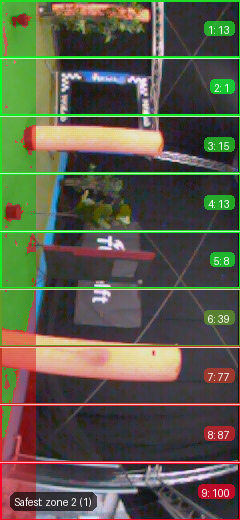
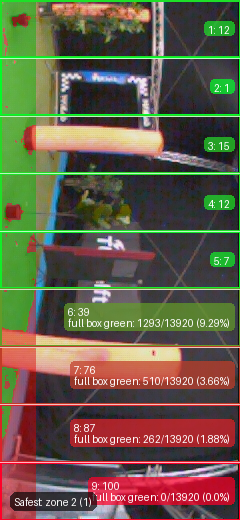
werkt nog niet zo lekker

diff --git a/niels/danger_detector.py b/niels/danger_detector.py
@@ -13,6 +13,7 @@ DEFAULT_IMAGE_DIR = Path("testimages")
 DEFAULT_OUTPUT_DIR = Path("outputs")
 IMAGE_EXTENSIONS = (".jpg", ".jpeg", ".png", ".bmp")
 NUM_ZONES = 9
+DANGER_DETECTED_THRESHOLD = 30
 
 
 def load_image(image_path: Path) -> Image.Image:
@@ -87,6 +88,31 @@ def compute_danger_scores(mask: np.ndarray, num_zones: int = NUM_ZONES) -> List[
     return results
 
 
+def check_danger(scores: List[dict], image_array: np.ndarray) -> List[dict]:
+    """For dangerous zones, count green pixels in the full grid box of that zone."""
+    mask = build_green_mask(image_array)
+
+    for item in scores:
+        y0, y1 = item["y_range"]
+        item["full_box_green_pixels"] = None
+        item["full_box_total_pixels"] = None
+        item["full_box_green_percent"] = None
+
+        if item["danger_score"] > DANGER_DETECTED_THRESHOLD and y1 > y0:
+            zone_box = mask[y0:y1, :]
+            total_pixels = int(zone_box.size)
+            green_pixels = int(zone_box.sum())
+            green_percent = (
+                0.0 if total_pixels == 0 else round((green_pixels / total_pixels) * 100.0, 2)
+            )
+
+            item["full_box_green_pixels"] = green_pixels
+            item["full_box_total_pixels"] = total_pixels
+            item["full_box_green_percent"] = green_percent
+
+    return scores
+
+
 def score_to_color(score: int) -> tuple[int, int, int]:
     red = min(255, int(255 * (score / 100)))
     green = min(255, int(255 * (1 - score / 100)))
@@ -130,12 +156,18 @@ def annotate_image(image: Image.Image, scores: List[dict]) -> Image.Image:
         y0, y1 = item["y_range"]
         score = item["danger_score"]
         label = f"{item['zone']}: {score}"
+        if item.get("full_box_green_pixels") is not None:
+            label += (
+                f"\nfull box green: {item['full_box_green_pixels']}"
+                f"/{item['full_box_total_pixels']}"
+                f" ({item['full_box_green_percent']}%)"
+            )
         color = score_to_color(score)
 
         # Coloured band border spanning the full width
         draw.rectangle([0, y0, width, y1], outline=color + (255,), width=2)
 
-        text_bbox = draw.textbbox((0, 0), label, font=font)
+        text_bbox = draw.multiline_textbbox((0, 0), label, font=font, spacing=1)
         text_width = text_bbox[2] - text_bbox[0]
         text_height = text_bbox[3] - text_bbox[1]
         text_x = width - text_width - 10
@@ -146,7 +178,7 @@ def annotate_image(image: Image.Image, scores: List[dict]) -> Image.Image:
             radius=4,
             fill=color + (180,),
         )
-        draw.text((text_x, text_y), label, fill=(255, 255, 255), font=font)
+        draw.multiline_text((text_x, text_y), label, fill=(255, 255, 255), font=font, spacing=1)
 
     # Horizontal dividing lines between zones
     for index in range(1, NUM_ZONES):
@@ -229,6 +261,7 @@ def run_detector(image_path: Path, output_dir: Path) -> tuple[Path, Path, List[d
     image_array = np.array(image)
     mask = build_green_mask(image_array)
     scores = compute_danger_scores(mask)
+    scores = check_danger(scores, image_array)
 
     visual = annotate_image(overlay_mask(image, mask), scores)
 
@@ -288,9 +321,16 @@ def main() -> None:
         print(f"\n{image_path.name}")
         print(f"  Annotated: {annotated_path}")
         for item in scores:
-            print(
+            message = (
                 f"  zone {item['zone']:>2}: {item['danger_score']:>3}  ({item['danger_level']})"
             )
+            if item.get("full_box_green_pixels") is not None:
+                message += (
+                    f"  full box green: {item['full_box_green_pixels']}"
+                    f"/{item['full_box_total_pixels']}"
+                    f" ({item['full_box_green_percent']}%)"
+                )
+            print(message)
 
     print(f"\nProcessed {len(images)} image(s). Opening preview...")
     show_images(annotated_paths)
